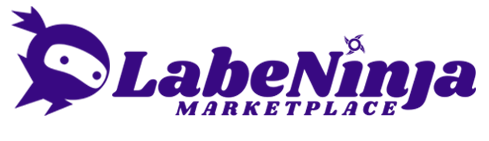
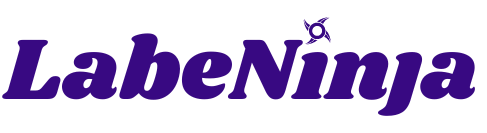
Terminando styled

Changed region(s): [[0.0, 0.0301, 0.9856, 0.8722]]

diff --git a/src/pages/HomePage/HomePage.js b/src/pages/HomePage/HomePage.js
@@ -4,7 +4,8 @@ import { ChakraProvider } from '@chakra-ui/react'
 import { Button } from '@chakra-ui/react'
 import { theme } from "../../constants/theme";
 import Ninja from '../../assets/img/ninja2.png'
-import Logo from '../../assets/img/logoteste.png'
+import Logo from '../../assets/img/desenho.png'
+import Footer from "../../components/Footer";
 
 
 const Botoes = styled.section`
@@ -15,66 +16,32 @@ const Botoes = styled.section`
     align-self: center;
     justify-self: center;
     margin-top: 50px;
-    padding-bottom: 30px;
+    /* padding-bottom: 30px; */
     
-    h3 {
-        font-size: 20px;
+    
+    p {
+        font-size: 3rem;
         font-weight: bold;
-
+        text-align: justify;
+        
     }
 
     button {
         display: flex;
-        width: 200px;
+        width: 160px;
 	    height: 40px;
         margin: 20px auto;
         align-items: center;
         justify-content: center;
-        font-size: 20px;
+        font-size: 17px;
         color: white;
     }
 `
-const Section1 =styled.section`
-    width: 100vw;
-    height: 400px;
-    border-top: 1px solid lightgrey;
-    margin: 0 auto;
-   justify-content: center;
-   font-size: 20px;
-   text-align: center;
-   padding-top: 30px;
-   `
-const Section2 =styled.section`
-    width: 100vw;
-    height: 400px;
-    background-color: #ff784f;
-    color: white;
-    border-top: 1px solid lightgrey;
-    margin: 0 auto;
-   justify-content: center;
-   font-size: 20px;
-   text-align: center;
-   padding-top: 30px;
-`
-const Section3 =styled.section`
-    width: 100vw;
-    height: 400px;
-    border-top: 1px solid lightgrey;
-    margin: 0 auto;
-   justify-content: center;
-   font-size: 20px;
-   text-align: center;
-   padding-top: 30px;
-`
-const Section4 =styled.section`
-    width: 100vw;
-    height: 400px;
-    border-top: 1px solid lightgrey;
-    margin: 0 auto;
-   justify-content: center;
-   font-size: 20px;
-   text-align: center;
-   padding-top: 30px;
+
+const TwoButtons = styled.div`
+    display: flex;
+    flex-direction: row;
+    gap: 10px;
 `
 
 const Section0 = styled.section`
@@ -82,21 +49,29 @@ const Section0 = styled.section`
     grid-template-columns: 1fr 1fr;
 	grid-template-rows: 1fr;
     padding-bottom: 30px;
-    padding-top: 140px;
+    padding-top: 10px;
+    max-width: 95%;
+    margin: 0 auto;
 
-    h3 {
+    p {
         display: grid;
         grid-row: 1/2;
         justify-self: center;
         align-self: center;
-        color: #3e3740;
+        color: #450059;
+        line-height: 110% ;
+    }
+
+    span {
+        color:#FF784F;
     }
     img {
-        display: grid;
+        display: flex;
         grid-column: 2/3;
-        justify-self: center;
-        align-self: center;
-        width:400px;
+        justify-self: start;
+        /* align-self: flex-start; */
+        width:550px;
+        /* padding-right: 30px; */
         
     }
 `
@@ -104,31 +79,21 @@ export default class HomePage extends React.Component {
 render(){
 return(
     <div>
-        <Section0>
+         <Section0>
             <img src={Logo}/>
             
             <Botoes>
-                <h3> Torne sua vida mais rapida e pratica </h3>
-                <h3>como um ninja</h3>
+                <p >Torne sua vida  <br/> rápida e prática <span>como um ninja.</span></p>
                 <ChakraProvider theme={theme}>
-                    <Button bg="brand.900" onClick = {this.props.goToFindJob}>Contrate um Ninja</Button>
-                    <Button bg="brand.900" onClick = {this.props.goToCreatedJob}>Seja um Ninja</Button>
+                    <TwoButtons>
+                    <Button bg="brand.violet" onClick = {this.props.goToFindJob}>Contrate um Ninja</Button>
+                    <Button bg="brand.violet" onClick = {this.props.goToCreatedJob}>Seja um Ninja</Button>
+                    </TwoButtons>
                 </ChakraProvider>
             </Botoes>
         </Section0>
-        <Section1>
-            <h3>O que é a labeninja?</h3>
-        </Section1>
-        <Section2>
-            <h3>Como funciona</h3>
-        </Section2>
-        <Section3>
-            <h3>Parcerias Labeninja</h3>
-        </Section3>
-        <Section4>
-            <h3>Quem contratou</h3>
-        </Section4>
-        
+    
+        <Footer/>
     </div>
 )
 }

diff --git a/src/components/Footer.js b/src/components/Footer.js
@@ -9,19 +9,19 @@ import { BsYoutube } from "react-icons/bs";
 
 const FooterContainer = styled.div`
 
-background-color: #86778a;
+background-color: #F6F5F7;
 /* border: 1px solid lightgrey; */
 bottom: 0;
-margin-top: 200px;
-position: fixed;
-width: 100vw;
-padding: 30px 30px 30px 30px;
+/* margin-top: 200px; */
+/* position: fixed; */
+width: 100%;
+padding: 20px 0 20px 0;
 display: flex;
 justify-content: space-around;
 /* color: ; */
 
 ul {
-  color: white;
+  color: #3f3d56;
 }
 
 h3 {
@@ -33,13 +33,21 @@ h3 {
 img {
   width: 20px;
 }
+
+div {
+  align-self: center;
+}
 `
+
 const RedesSociais = styled.div`
     display: flex;
     /* flex-direction: row; */
     justify-content: space-between;
-    color: white;
-    font-size: 40px;
+    align-items: center;
+    color: #450059;
+    width: 100%;
+    gap: 10px;
+    font-size: 25px;
 `
 
 export default class Footer extends React.Component {
@@ -62,15 +70,13 @@ export default class Footer extends React.Component {
             <ul>Fale Conosco</ul>
           </ol>
           <div>
-            <h3>Redes sociais</h3>
-            <RedesSociais>
-              <RiInstagramFill/>
-              <BsFacebook/>
-              <BsTwitter/>
-              <BsYoutube/>
+              <RedesSociais>
+              <a href="https://www.instagram.com/" target="_blank"><RiInstagramFill/></a>
+              <a href="https://www.facebook.com/" target="_blank"><BsFacebook/></a>
+              <a  href="https://twitter.com/" target="_blank"><BsTwitter/></a>
+              <a href="https://www.youtube.com/" target="_blank"><BsYoutube/></a>
             </RedesSociais>
           </div>
-          <h3>Donwloads</h3>
         </FooterContainer>
       </div>
     );

diff --git a/src/components/Header.js b/src/components/Header.js
@@ -8,8 +8,8 @@ import { theme } from "../constants/theme";
 
 
 const HeaderContainer = styled.div`
-border: 1px solid lightgrey;
-background-color: #450059;
+/* border: 1px solid lightgrey; */
+background-color: white;
 display: flex;
 /* position: fixed; */
 top:0;
@@ -18,17 +18,21 @@ justify-content: space-between;
 align-items: center;
 padding: 10px 50px 10px 100px;
 z-index: 2;
+max-width: 95%;
+margin: 0 auto;
 
 `
 const Img = styled.img`
     width: 250px;
     padding: 0 0 0 30px;
+    margin-left: 20px;
 
 `
 const BotaoComMargem = styled(Button)`
     margin-right: 40px;
     color: white;
     display: flex;
+    gap: 5px;
     border: 2px solid white;
     /* justify-content: center; */
     /* width: 200px; */
@@ -41,7 +45,7 @@ export default class Header extends React.Component {
         <ChakraProvider theme={theme}>
           <HeaderContainer>
           <Img onClick = {() => this.props.handleHomePage()}src={LogoNinja}/>
-            <BotaoComMargem bg="brand.white" onClick = {() => this.props.handleCartPage()}>Área de Compras<AiOutlineShoppingCart/> </BotaoComMargem>
+            <BotaoComMargem bg="brand.violet" onClick = {() => this.props.handleCartPage()}>Área de Compras <AiOutlineShoppingCart/></BotaoComMargem>
           </HeaderContainer>
         </ChakraProvider>
       </div>
